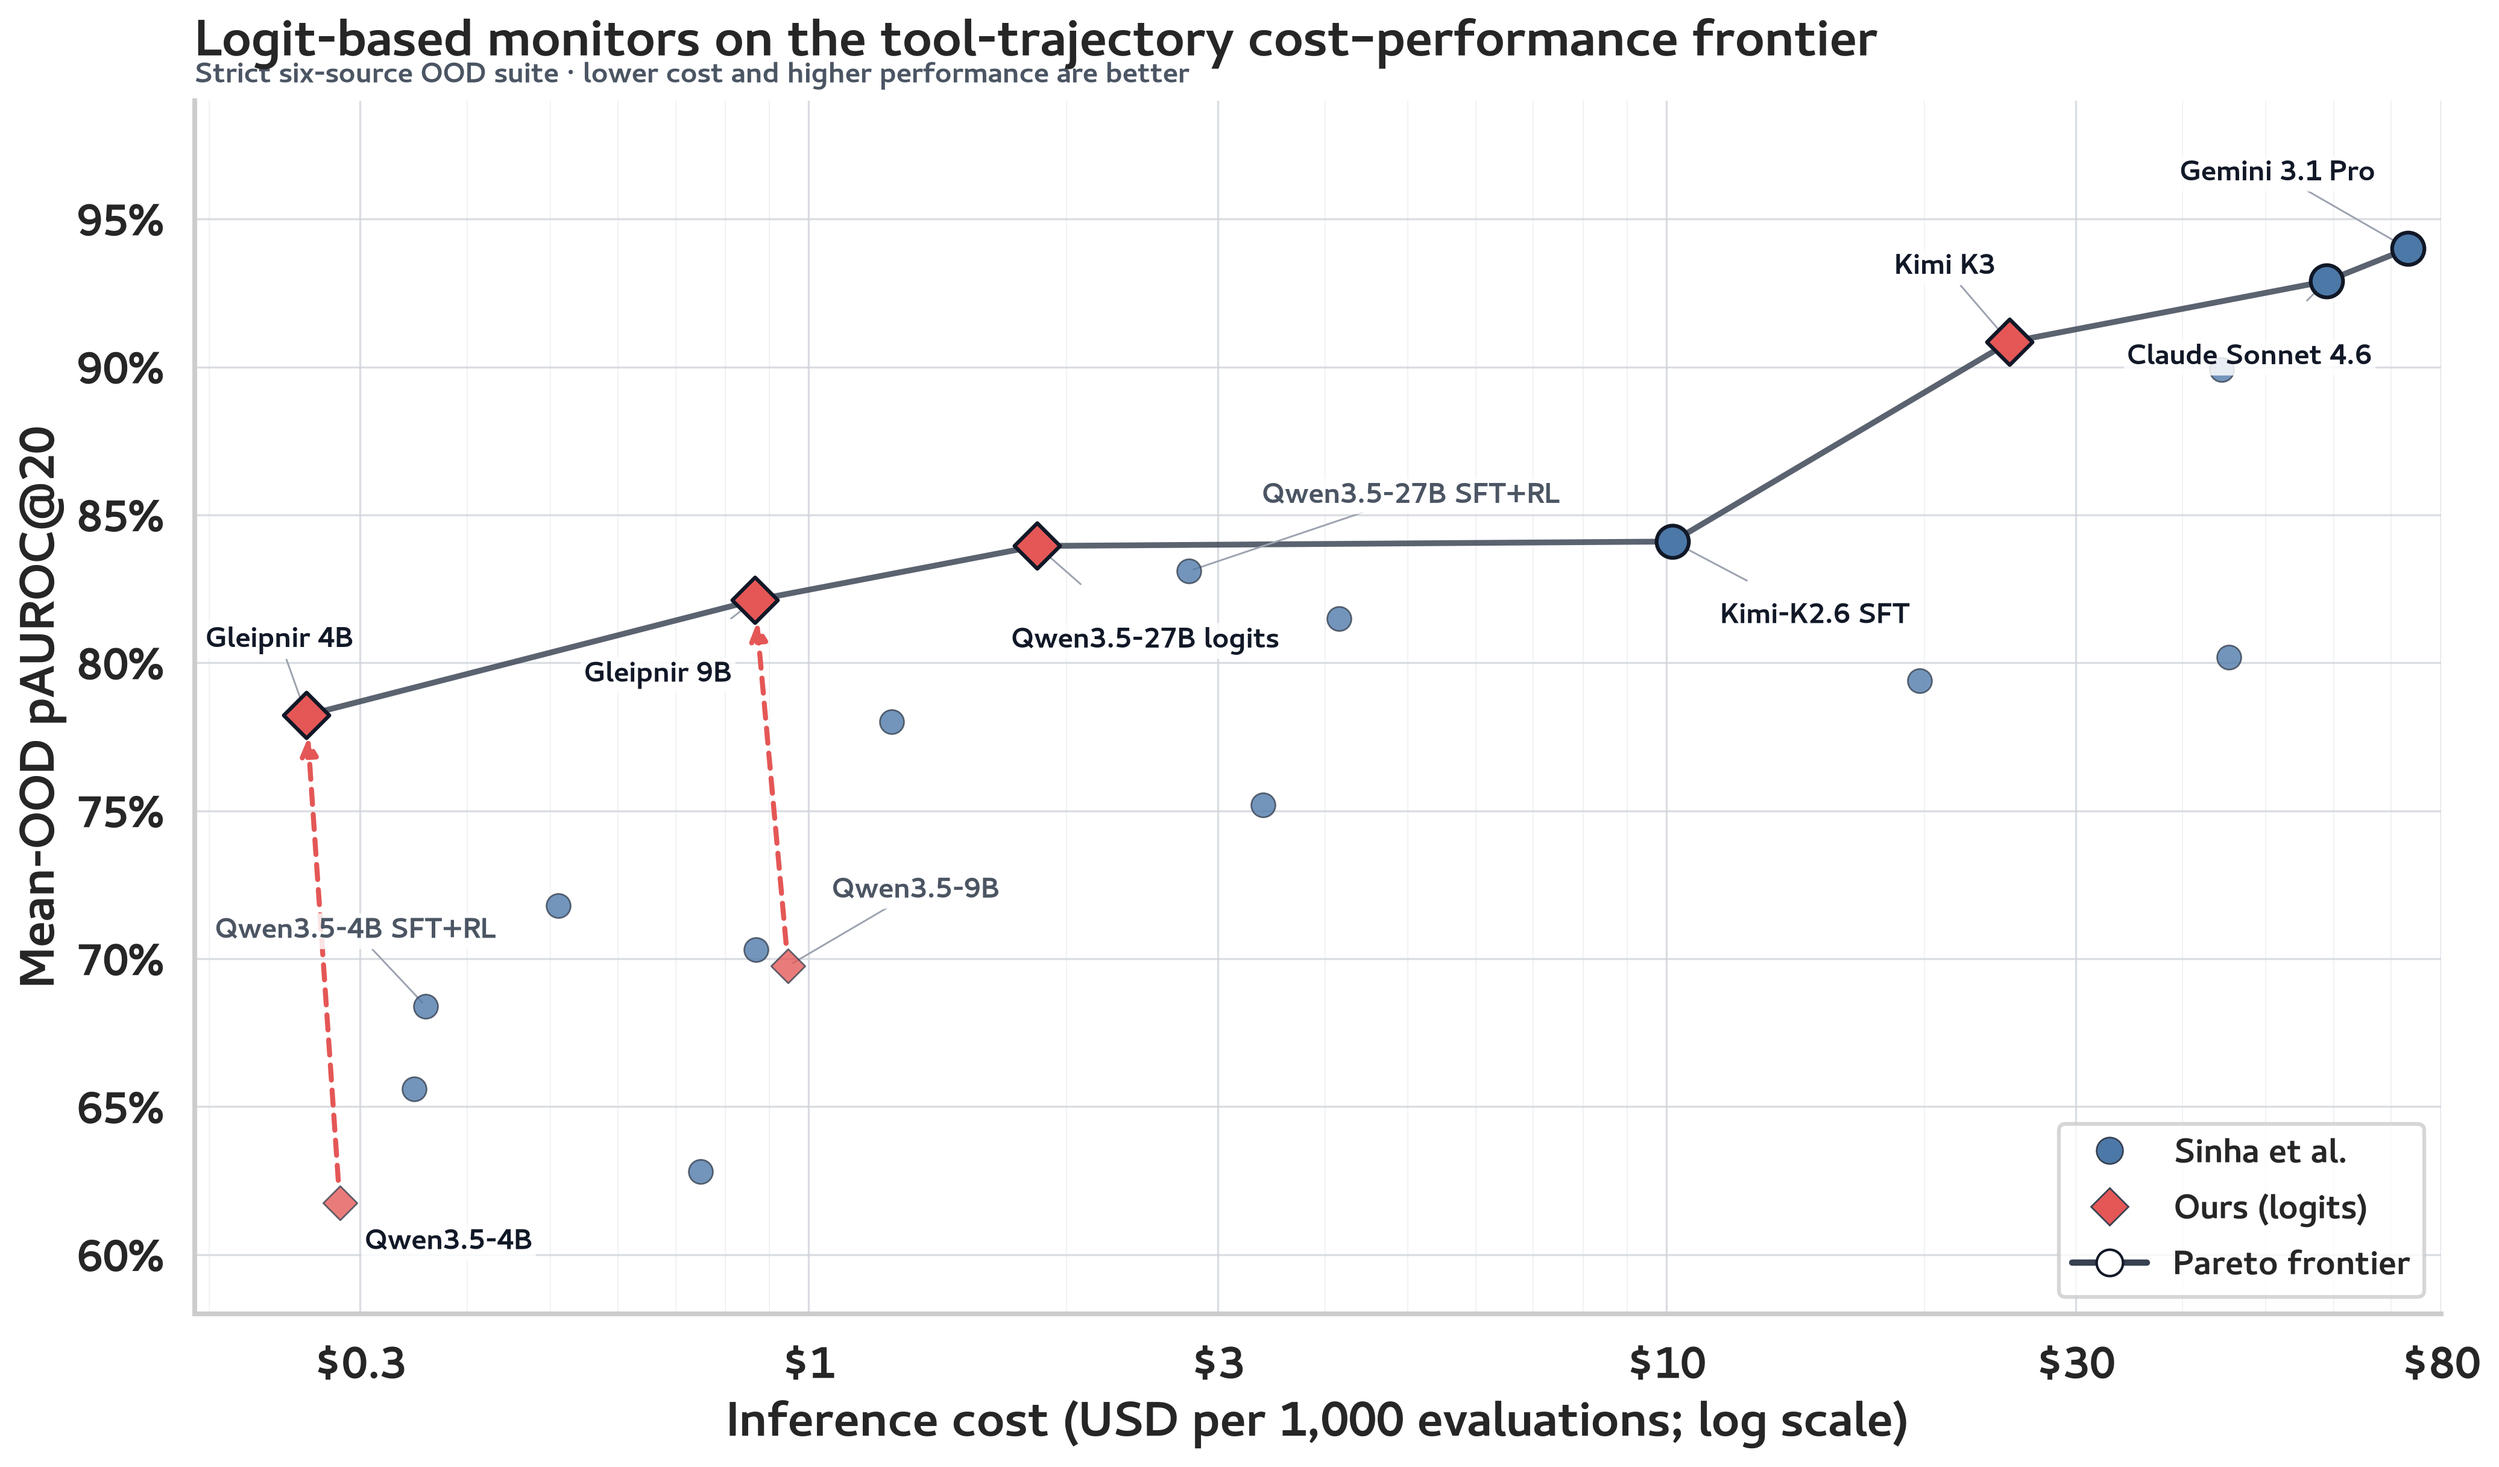
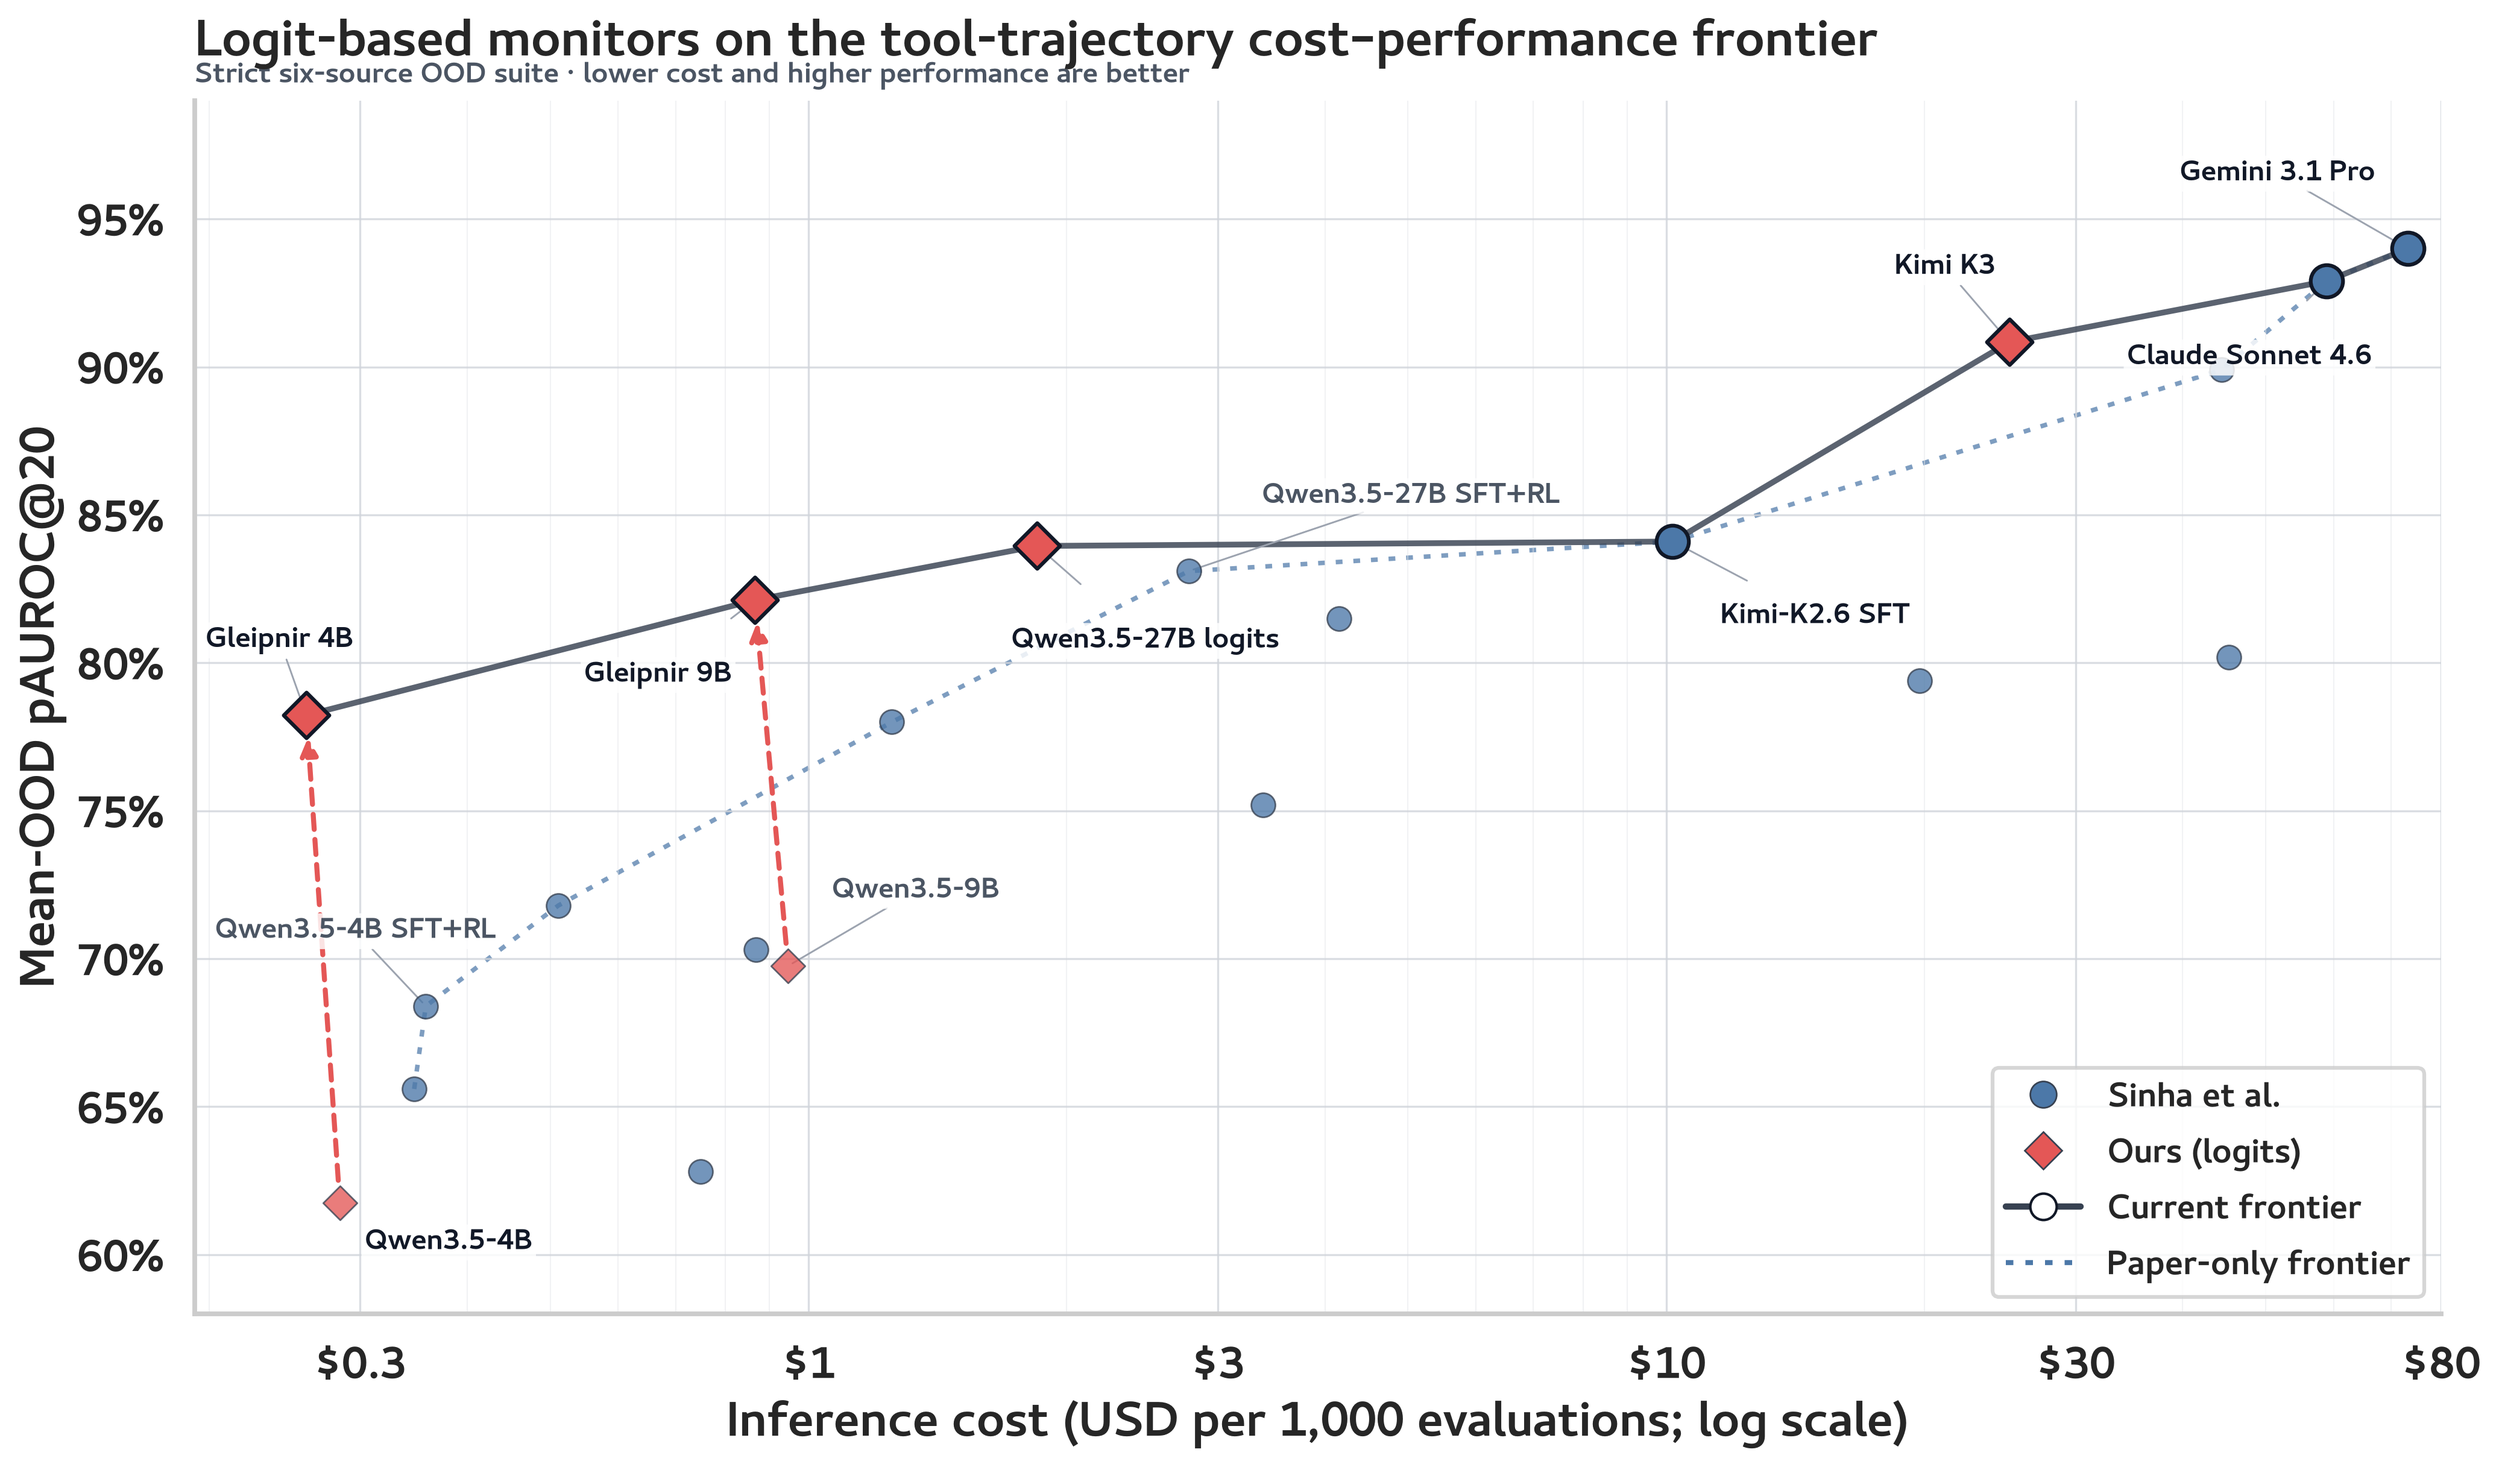
Overlay paper-only OOD frontier

Changed region(s): [[0.8092, 0.7185, 0.9648, 0.8746]]

diff --git a/scripts/plot_tool_trajectory_ood_frontier.py b/scripts/plot_tool_trajectory_ood_frontier.py
@@ -189,6 +189,16 @@ def _improvement_pairs(frame: pd.DataFrame) -> list[tuple[pd.Series, pd.Series]]
     return pairs
 
 
+def _paper_frontier(frame: pd.DataFrame) -> pd.DataFrame:
+    """Recompute the historical frontier using only visible paper points."""
+    paper = frame.loc[frame["origin"].eq("Paper")].copy()
+    paper["paper_frontier"] = pareto_frontier_mask(
+        paper["cost_per_1k"].to_numpy(),
+        paper["mean_ood_pauroc_at_20"].to_numpy(),
+    )
+    return paper.loc[paper["paper_frontier"]].sort_values("cost_per_1k")
+
+
 def plot_frontier(frame: pd.DataFrame) -> plt.Figure:
     """Build the publication-ready OOD frontier plot."""
     frame = select_plot_points(frame)
@@ -205,6 +215,16 @@ def plot_frontier(frame: pd.DataFrame) -> plt.Figure:
     axis.set_ylim(MIN_PLOTTED_PERFORMANCE - 0.02, 0.99)
 
     frontier = frame.loc[frame["computed_frontier"]].sort_values("cost_per_1k")
+    paper_frontier = _paper_frontier(frame)
+    axis.plot(
+        paper_frontier["cost_per_1k"],
+        paper_frontier["mean_ood_pauroc_at_20"],
+        color=ORIGIN_PALETTE["Paper"],
+        linestyle=(0, (1.5, 2.4)),
+        linewidth=1.8,
+        alpha=0.72,
+        zorder=0,
+    )
     axis.plot(
         frontier["cost_per_1k"],
         frontier["mean_ood_pauroc_at_20"],
@@ -384,7 +404,17 @@ def plot_frontier(frame: pd.DataFrame) -> plt.Figure:
             markeredgecolor="#111827",
             linewidth=2.5,
             markersize=10.5,
-            label="Pareto frontier",
+            label="Current frontier",
+        )
+    )
+    legend_handles.append(
+        Line2D(
+            [],
+            [],
+            color=ORIGIN_PALETTE["Paper"],
+            linestyle=(0, (1.5, 2.4)),
+            linewidth=2.0,
+            label="Paper-only frontier",
         )
     )
     axis.legend(

diff --git a/tests/test_plotting.py b/tests/test_plotting.py
@@ -10,6 +10,7 @@ from scripts.plot_tool_trajectory_ood_frontier import (
     _improvement_pairs,
     _label_obstacles,
     _markdown_cells,
+    _paper_frontier,
     load_frontier_registry,
     select_plot_points,
 )
@@ -104,6 +105,17 @@ def test_improvement_arrows_pair_each_gleipnir_method_with_its_base() -> None:
         float(method["mean_ood_pauroc_at_20"]) > float(base["mean_ood_pauroc_at_20"])
         for base, method in pairs
     )
+
+
+def test_paper_frontier_reconstructs_the_pre_gleipnir_low_cost_curve() -> None:
+    plotted = select_plot_points(load_frontier_registry(DEFAULT_SOURCE))
+    paper_frontier = _paper_frontier(plotted)
+
+    assert paper_frontier.iloc[0]["monitor"] == "GPT-OSS-20B SFT"
+    assert "Qwen3.5-4B SFT+RL" in set(paper_frontier["monitor"])
+    assert "Qwen3.5-27B SFT+RL" in set(paper_frontier["monitor"])
+    assert paper_frontier["cost_per_1k"].is_monotonic_increasing
+    assert paper_frontier["mean_ood_pauroc_at_20"].is_monotonic_increasing
 
 
 def test_label_obstacles_sample_the_frontier_between_points() -> None:

diff --git a/figures/README.md b/figures/README.md
@@ -35,6 +35,9 @@ The paper's Qwen3.5-4B SFT+RL and Qwen3.5-27B SFT+RL points remain labelled
 despite being off the frontier because they anchor matched-backbone comparisons:
 Gleipnir 4B shows the distillation uplift at 4B, while Qwen3.5-27B logits shows
 the gain from changing the evaluation interface without training the backbone.
+A muted blue dotted line recomputes the frontier from the visible paper points
+alone; the solid dark line is the current combined frontier. Their separation
+at low cost shows which historical frontier points the Gleipnir students displace.
 
 Pass `--source` to override the registry. Pass `--output` one or more times to
 select custom output paths and formats, for example:
